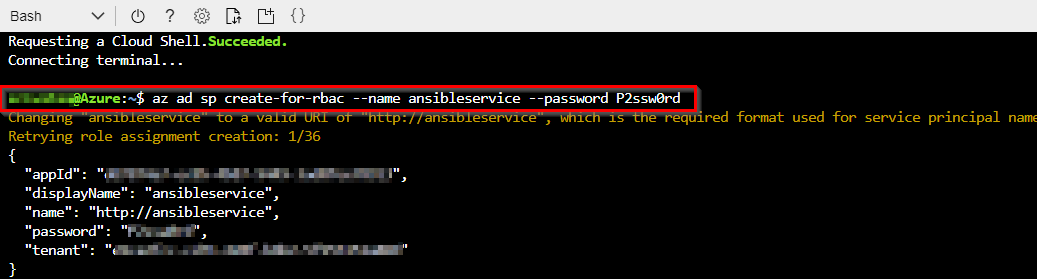
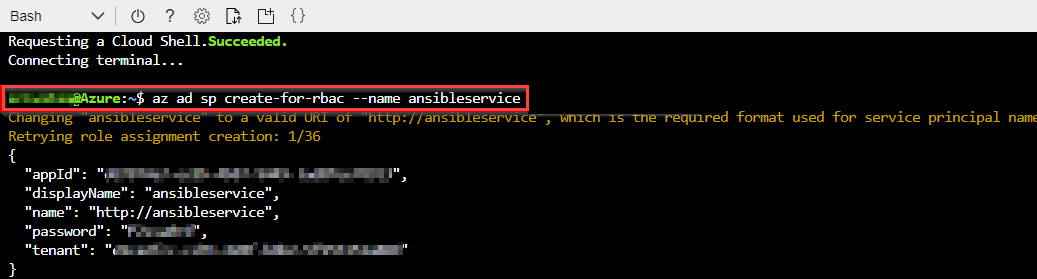
updating how to create azure service principal (#291)

Changed region(s): [[0.0, 0.2867, 0.6789, 0.4301]]

diff --git a/labs/vstsextend/octopus/readme.md b/labs/vstsextend/octopus/readme.md
@@ -56,16 +56,13 @@ We need to generate SPN details to get **Tenant ID**, **Application ID** and **A
 1. Create Storage account as Azure Cloud Shell requires an Azure file share to persist files, If you already have one select it or create new. Select the subscription and click on **Create storage**. 
     ![webapp](images/DashboardMicrosoftAzure3.png)
 
-1. Once the storage account is provisioned, replace the variables within in brackets with values below  and run the command to get the SPN details.
+1. Once the storage account is provisioned, enter the following command by replacing ServicePrincipalName with your desired value.
 
-    `az ad sp create-for-rbac --name (provide a short name) --password (provide a password)`
-    
-    ![webapp](images/DashboardMicrosoftAzure5.png)
+    `az ad sp create-for-rbac -n ServicePrincipalName`
 
-1. Note down the **Tenant ID**, **Appliction ID** and the **Password** in a notepad. 
-
-    ![webapp](images/DashboardMicrosoftAzure6.png)
-
+   It will give you a JSON output as shown in the image. Copy the output to notepad or text file. You will need them later.
+   
+   ![SPN](images/azureserviceprincipal.png)
 
 ## Setting up the Deployment Target
 

diff --git a/labs/vstsextend/ansible/readme.md b/labs/vstsextend/ansible/readme.md
@@ -41,9 +41,9 @@ Ansible includes a suite of modules for interacting with Azure Resource Manager,
 
     ![](images/azurecloudshell.png)
 
-1. Enter the following command by replacing ServicePrincipalName and PASSWORD with your desired values.
+1. Enter the following command by replacing ServicePrincipalName with your desired value.
 
-   `az ad sp create-for-rbac --name ServicePrincipalName --password PASSWORD `
+   `az ad sp create-for-rbac --name ServicePrincipalName `
 
    It will give you a JSON output as shown in the image. Copy the output to notepad. This details required in your next tasks.
          

diff --git a/labs/vstsextend/azurekeyvault/readme.md b/labs/vstsextend/azurekeyvault/readme.md
@@ -38,9 +38,9 @@ We will create one manually using the Azure CLI. If you do already have a servic
 
     ![](images/azurecloudshell.png)
 
-1. Enter the following command by replacing ServicePrincipalName and PASSWORD with your desired values.
+1. Enter the following command by replacing ServicePrincipalName with your desired value.
 
-   `az ad sp create-for-rbac -n ServicePrincipalName -p PASSWORD `
+   `az ad sp create-for-rbac -n ServicePrincipalName `
 
    It will give you a JSON output as shown in the image. Copy the output to notepad or text file. You will need them later.
 
